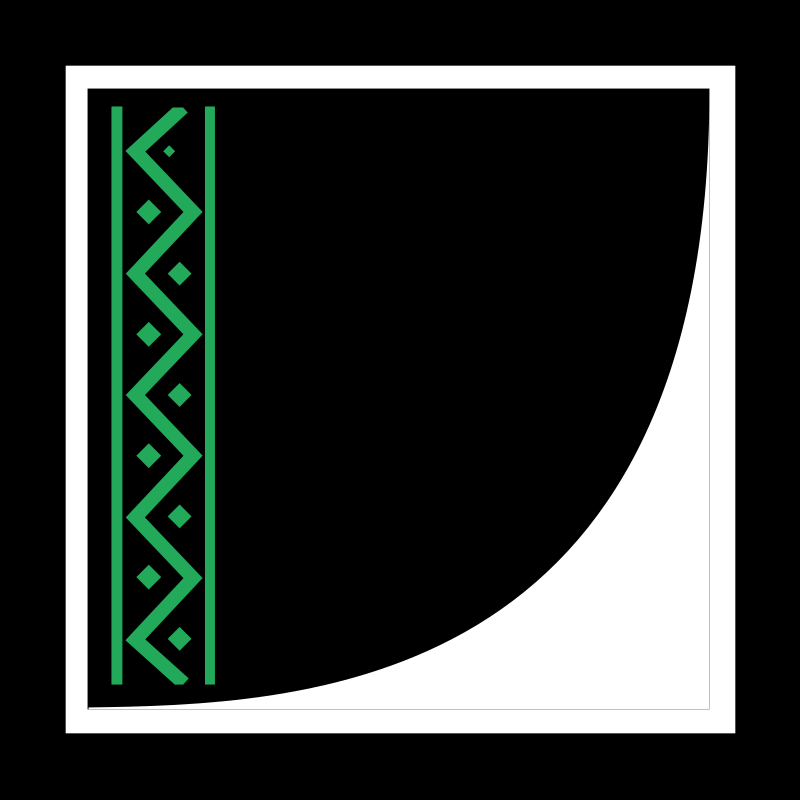
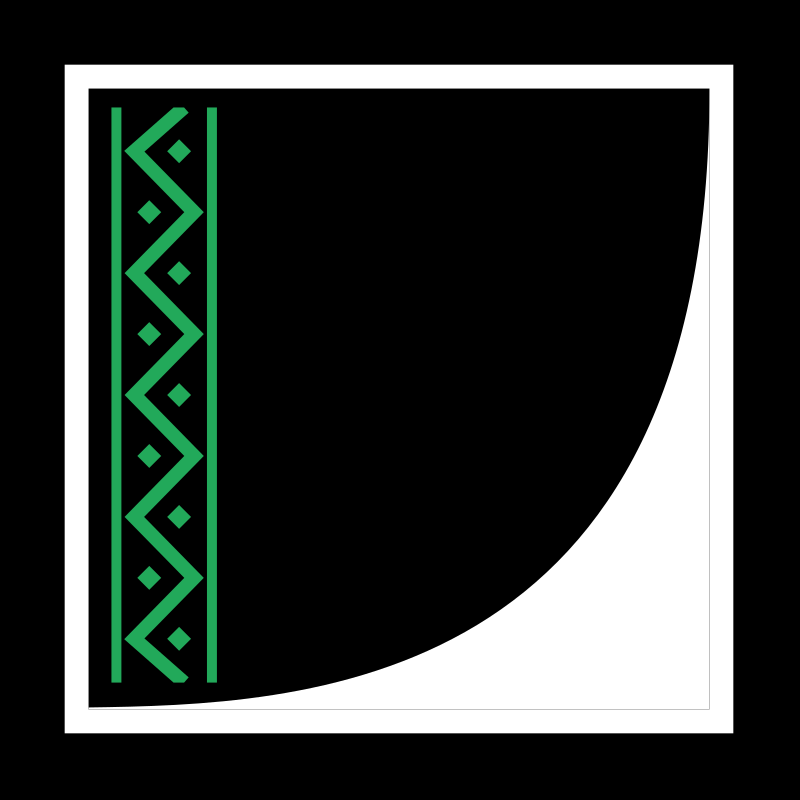
Apply symmetric sa/acc mark and website motif

diff --git a/src/styles/global.css b/src/styles/global.css
@@ -25,7 +25,7 @@
   --color-github-border: #30363d;
   --color-github-text: #e6edf3;
   --color-github-muted: #8b949e;
-  --color-github-green: #3fb950;
+  --color-github-green: #22A95A;
   --color-github-header: #161b22;
 }
 
@@ -35,7 +35,7 @@
   --border: #30363d;
   --text-main: #e6edf3;
   --text-muted: #8b949e;
-  --green: #3fb950;
+  --green: #22A95A;
   --header: #161b22;
 }
 
@@ -47,15 +47,38 @@ html {
 
 body {
   background-color: var(--bg);
-  background-image:
-    linear-gradient(rgba(48, 54, 61, 0.2) 1px, transparent 1px),
-    linear-gradient(90deg, rgba(48, 54, 61, 0.2) 1px, transparent 1px);
-  background-size: 40px 40px;
   color: var(--text-main);
   min-height: 100vh;
   font-family: "Cascadia Code Arabic", "JetBrains Mono", monospace;
   line-height: 1.6;
   overflow-x: hidden;
+}
+
+/* The strip repeats the logo's rails, sharp turns, and equal diamonds. */
+.saacc-hero {
+  position: relative;
+  padding-block-start: 48px;
+}
+
+.saacc-hero::before,
+.saacc-footer::before {
+  content: "";
+  display: block;
+  height: 16px;
+  width: 100%;
+  background: url("/assets/brand/saacc-pattern-strip.svg") repeat-x left center / 64px 16px;
+  opacity: 0.42;
+  pointer-events: none;
+}
+
+.saacc-hero::before {
+  position: absolute;
+  top: 0;
+  left: 0;
+}
+
+.saacc-footer::before {
+  opacity: 0.28;
 }
 
 html[lang="ar"] body {
@@ -138,7 +161,7 @@ html[lang="ar"] .lang-block.lang-ar {
 
 /* ─── Accessibility: visible keyboard focus ─── */
 :focus-visible {
-  outline: 2px solid #3fb950;
+  outline: 2px solid #22A95A;
   outline-offset: 2px;
   border-radius: 2px;
 }
@@ -195,7 +218,7 @@ button:focus:not(:focus-visible),
   font-weight: 700;
   line-height: 1;
   margin-bottom: 0.5rem;
-  color: #3fb950;
+  color: #22A95A;
 }
 .stat-block .stat-label {
   display: block;
@@ -204,7 +227,7 @@ button:focus:not(:focus-visible),
   text-transform: uppercase;
   letter-spacing: 0.05em;
 }
-.stat-block.stat-green .stat-number { color: #3fb950; }
+.stat-block.stat-green .stat-number { color: #22A95A; }
 .stat-block.stat-red .stat-number { color: #f85149; }
 .stat-block.stat-blue .stat-number { color: #58a6ff; }
 .stat-block.stat-purple .stat-number { color: #bc8cff; }
@@ -221,7 +244,7 @@ button:focus:not(:focus-visible),
   gap: 0.75rem;
   background: #171717;
   /* logical, so the accent bar sits on the start edge in both LTR and RTL */
-  border-inline-start: 4px solid #3fb950;
+  border-inline-start: 4px solid #22A95A;
   border-radius: 6px;
   padding: 1rem 1.25rem;
   margin: 1.5rem 0;
@@ -231,7 +254,7 @@ button:focus:not(:focus-visible),
 .callout::before {
   content: "ℹ";
   flex-shrink: 0;
-  color: #3fb950;
+  color: #22A95A;
   font-weight: 700;
 }
 .callout-info { border-inline-start-color: #58a6ff; }
@@ -240,8 +263,8 @@ button:focus:not(:focus-visible),
 .callout-warning::before { content: "⚠"; color: #d29922; }
 .callout-danger { border-inline-start-color: #f85149; }
 .callout-danger::before { content: "✕"; color: #f85149; }
-.callout-success { border-inline-start-color: #3fb950; }
-.callout-success::before { content: "✓"; color: #3fb950; }
+.callout-success { border-inline-start-color: #22A95A; }
+.callout-success::before { content: "✓"; color: #22A95A; }
 .callout p {
   margin: 0;
 }
@@ -455,10 +478,10 @@ body.slideshow-active .figure-people figcaption {
   word-break: break-all;
 }
 .prose .footnotes a {
-  color: #3fb950;
+  color: #22A95A;
 }
 .prose sup a {
-  color: #3fb950;
+  color: #22A95A;
   text-decoration: none;
   font-weight: 600;
   padding: 0 2px;
@@ -470,12 +493,12 @@ body.slideshow-active .figure-people figcaption {
   line-height: 1.2 !important;
   text-transform: uppercase;
   letter-spacing: 0.15em;
-  color: #3fb950 !important;
+  color: #22A95A !important;
   margin-top: 4rem !important;
   margin-bottom: 2rem !important;
   padding: 0.75rem 1rem !important;
   background: linear-gradient(90deg, rgba(63, 185, 80, 0.08), transparent);
-  border-inline-start: 3px solid #3fb950;
+  border-inline-start: 3px solid #22A95A;
   border-bottom: none !important;
 }
 /* gradients take no logical direction, so mirror the tint by hand in RTL */
@@ -493,7 +516,7 @@ html[dir="rtl"] .prose h2 {
   font-weight: 700;
   text-transform: uppercase;
   letter-spacing: 0.15em;
-  color: #3fb950;
+  color: #22A95A;
   background: rgba(63, 185, 80, 0.12);
   border: 1px solid rgba(63, 185, 80, 0.3);
   padding: 0.25rem 0.625rem;
